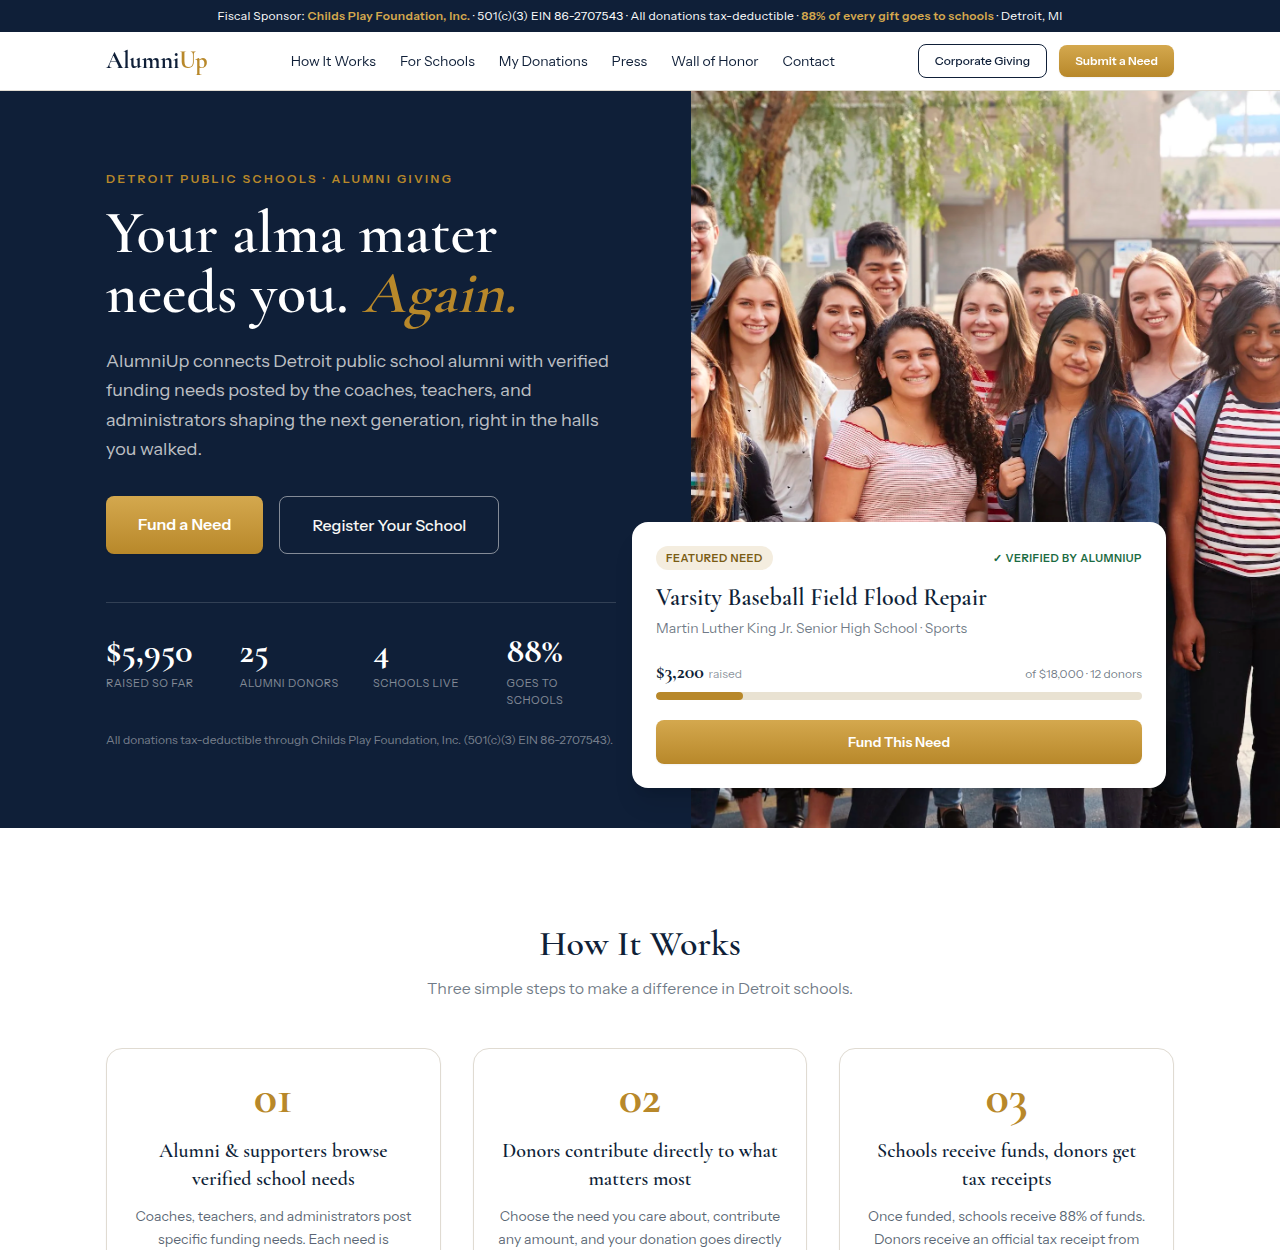
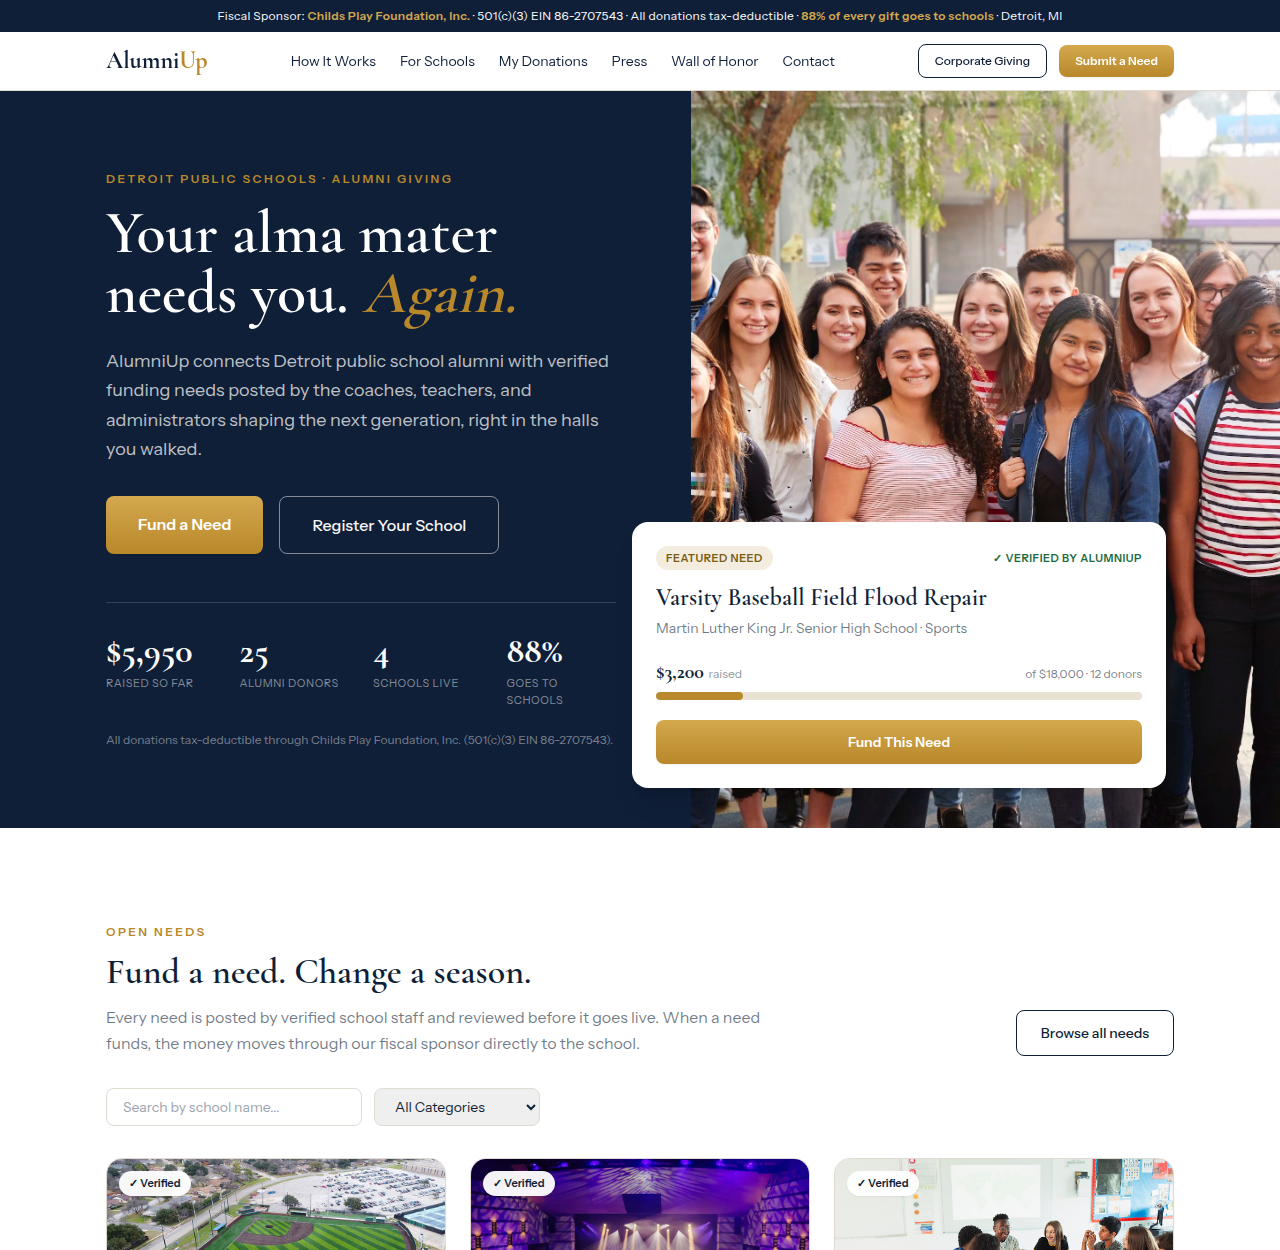
Submit a Need: add 'Don't see your school? Register it first' path to the school registration form (with anchor)

Changed region(s): [[0.0625, 0.8736, 0.9375, 1.0], [0.0938, 0.7176, 0.6562, 0.8424], [0.8125, 0.8112, 0.9062, 0.8424]]

diff --git a/src/app/submit-need/page.tsx b/src/app/submit-need/page.tsx
@@ -235,6 +235,13 @@ export default function SubmitNeedPage() {
                     </option>
                   ))}
                 </select>
+                <p className="font-sans text-xs text-navy/60 mt-2">
+                  Don&rsquo;t see your school?{" "}
+                  <a href="/for-schools#register" className="text-gold font-semibold hover:underline">
+                    Register it first
+                  </a>{" "}
+                  and we will verify it, then you can post your need.
+                </p>
               </div>
 
               <div>

diff --git a/src/app/for-schools/page.tsx b/src/app/for-schools/page.tsx
@@ -165,7 +165,7 @@ export default function ForSchoolsPage() {
         </div>
 
         {/* Registration form */}
-        <div className="mt-16 max-w-xl mx-auto">
+        <div id="register" className="mt-16 max-w-xl mx-auto scroll-mt-28">
           <h2 className="font-serif text-2xl font-semibold text-navy text-center">Register Your School</h2>
 
           {status === "success" ? (

diff --git a/09-addendum-verification/reply-to-fiscal-sponsor-draft.md b/09-addendum-verification/reply-to-fiscal-sponsor-draft.md
@@ -1,0 +1,29 @@
+# Draft reply to Childs Play Foundation, Inc. (fiscal sponsor)
+## Prepared October 20, 2026. NOT sent. For Risha's approval in the AlumniUp App chat.
+## Send on the existing sponsor thread. Confirm the contact name before sending; do not change the mechanism wording without Risha's approval.
+
+Subject: How AlumniUp will verify schools used funds as stated
+
+Hi [sponsor contact name],
+
+Thank you for raising the verification question directly. You are right that our money trail, as first designed, proved a school received funds. It did not yet prove the school spent them on the stated need. We have now built that second check into the platform design, before any money moves. Here is how it works:
+
+1. Agreement before money. Every school signs a participation agreement at registration. Funds are restricted to the stated need, proof of use is due within 30 days of receipt, unspent funds are returned or redirected only with your written approval, and a school with overdue proof cannot post new needs or receive new disbursements.
+
+2. Proof of use is a required step, not a favor. After a school confirms receipt, the need enters an Awaiting Proof state. The poster uploads vendor invoices or purchase receipts and a completion photo showing the result, plus the final amount spent if it differs from the amount disbursed.
+
+3. A named administrator countersigns. The school administrator reviews the packet and attests, by name and date, that the funds were spent as stated. The poster gathers the proof, the administrator signs for it, and your office verifies it. Two signatures, two different checks.
+
+4. Your verification is the final public state. When your office marks a need Use Verified, that becomes the last step on its public trail: Live, Funded, Sent, Received, Use Verified. The public sees the summary (vendor, amount spent versus disbursed, completion photo, verified date). The underlying invoices stay on your side, since receipts can carry personal details.
+
+5. Larger needs can carry structure. Above a threshold you set (we are using $5,000 as a working default), you may choose payment in tranches, with the balance released when proof for the first part is verified, or direct payment to the vendor against the invoice, so the school never holds the money.
+
+6. The enforcement ladder is automatic. A reminder goes out at day 14. At day 30 the need shows Proof Overdue publicly and the school is flagged, with no new needs and no new disbursements, until the proof is filed. You can also export a complete evidence packet PDF for any need, covering the trail dates, the disbursement record, the receipt confirmation, the proof documents, and the attestation, for your audit and tax records.
+
+The full mechanism is written into our stage documents as the Verification of Use Addendum, and I am glad to share that document if it is useful for your files. The one decision that is yours is the threshold for tranches and direct vendor payment. If $5,000 does not fit how you work, tell me the number you prefer and we will build to it.
+
+Thank you for holding us to the stronger standard. It made the product better.
+
+Best regards,
+Erisha Smith
+AlumniUp, Lexis Sapphire Studio
